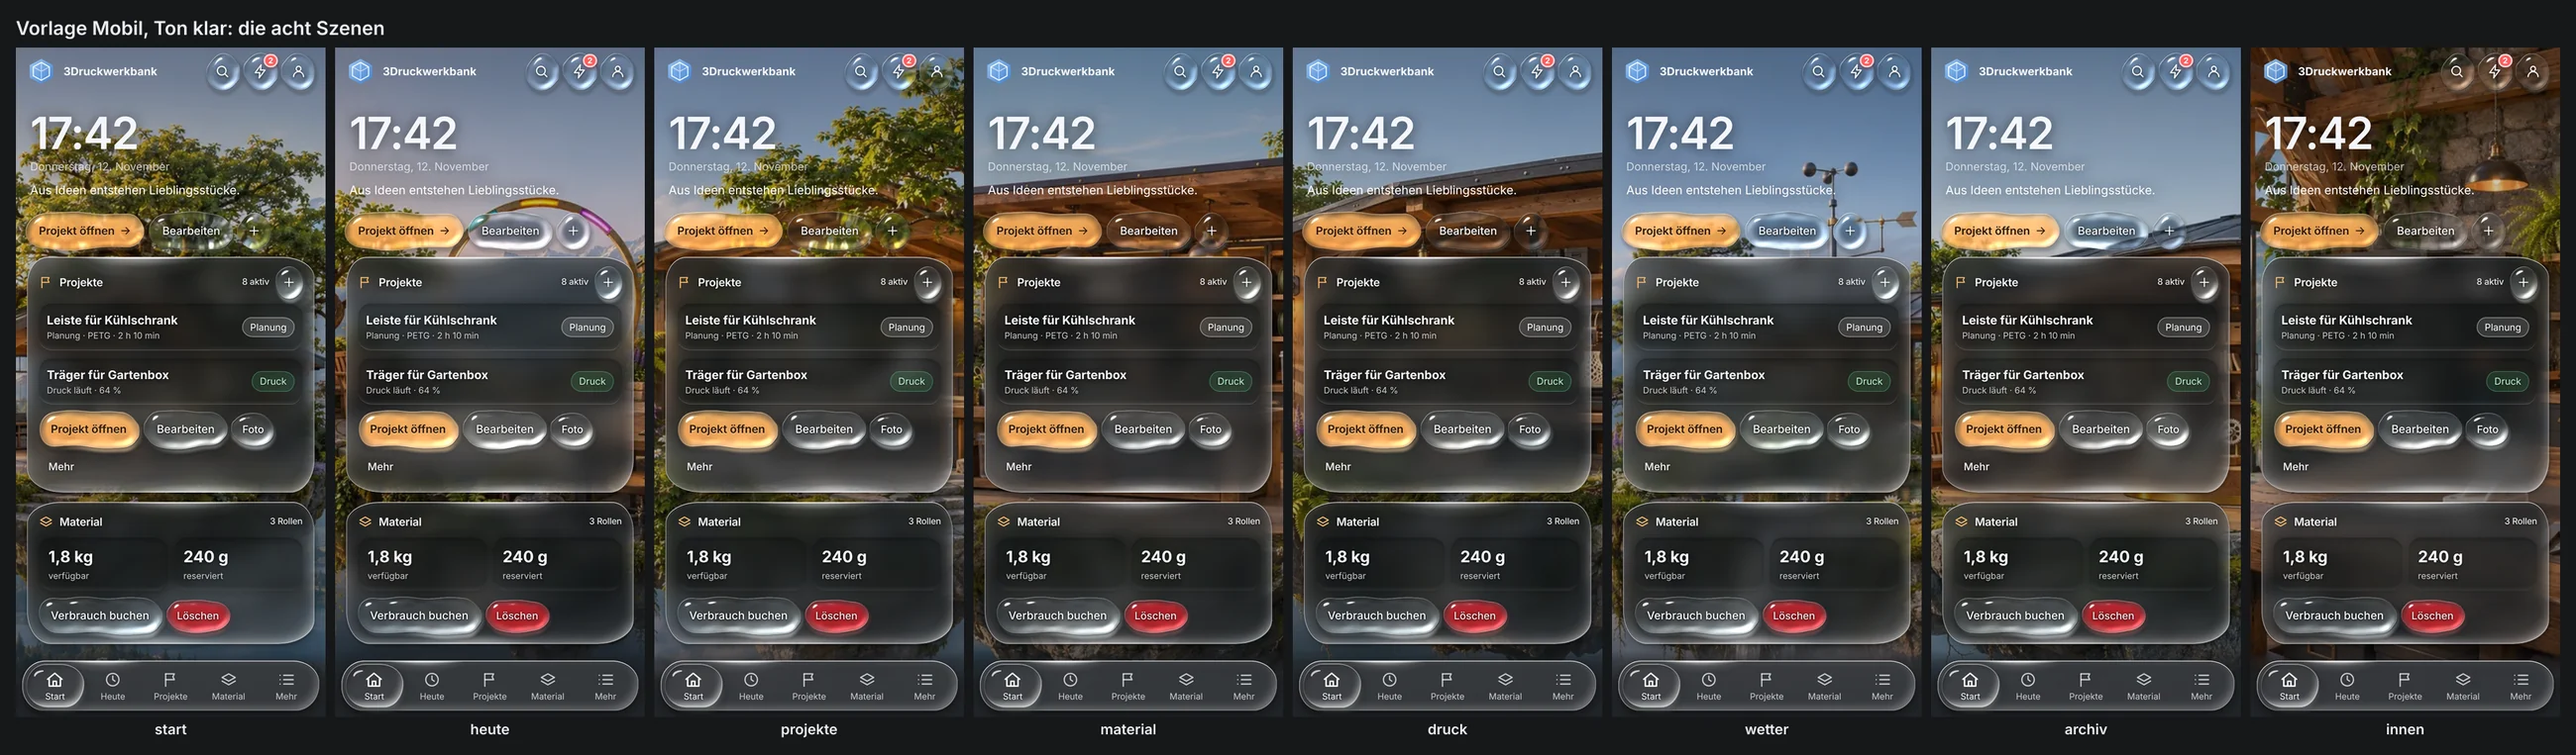
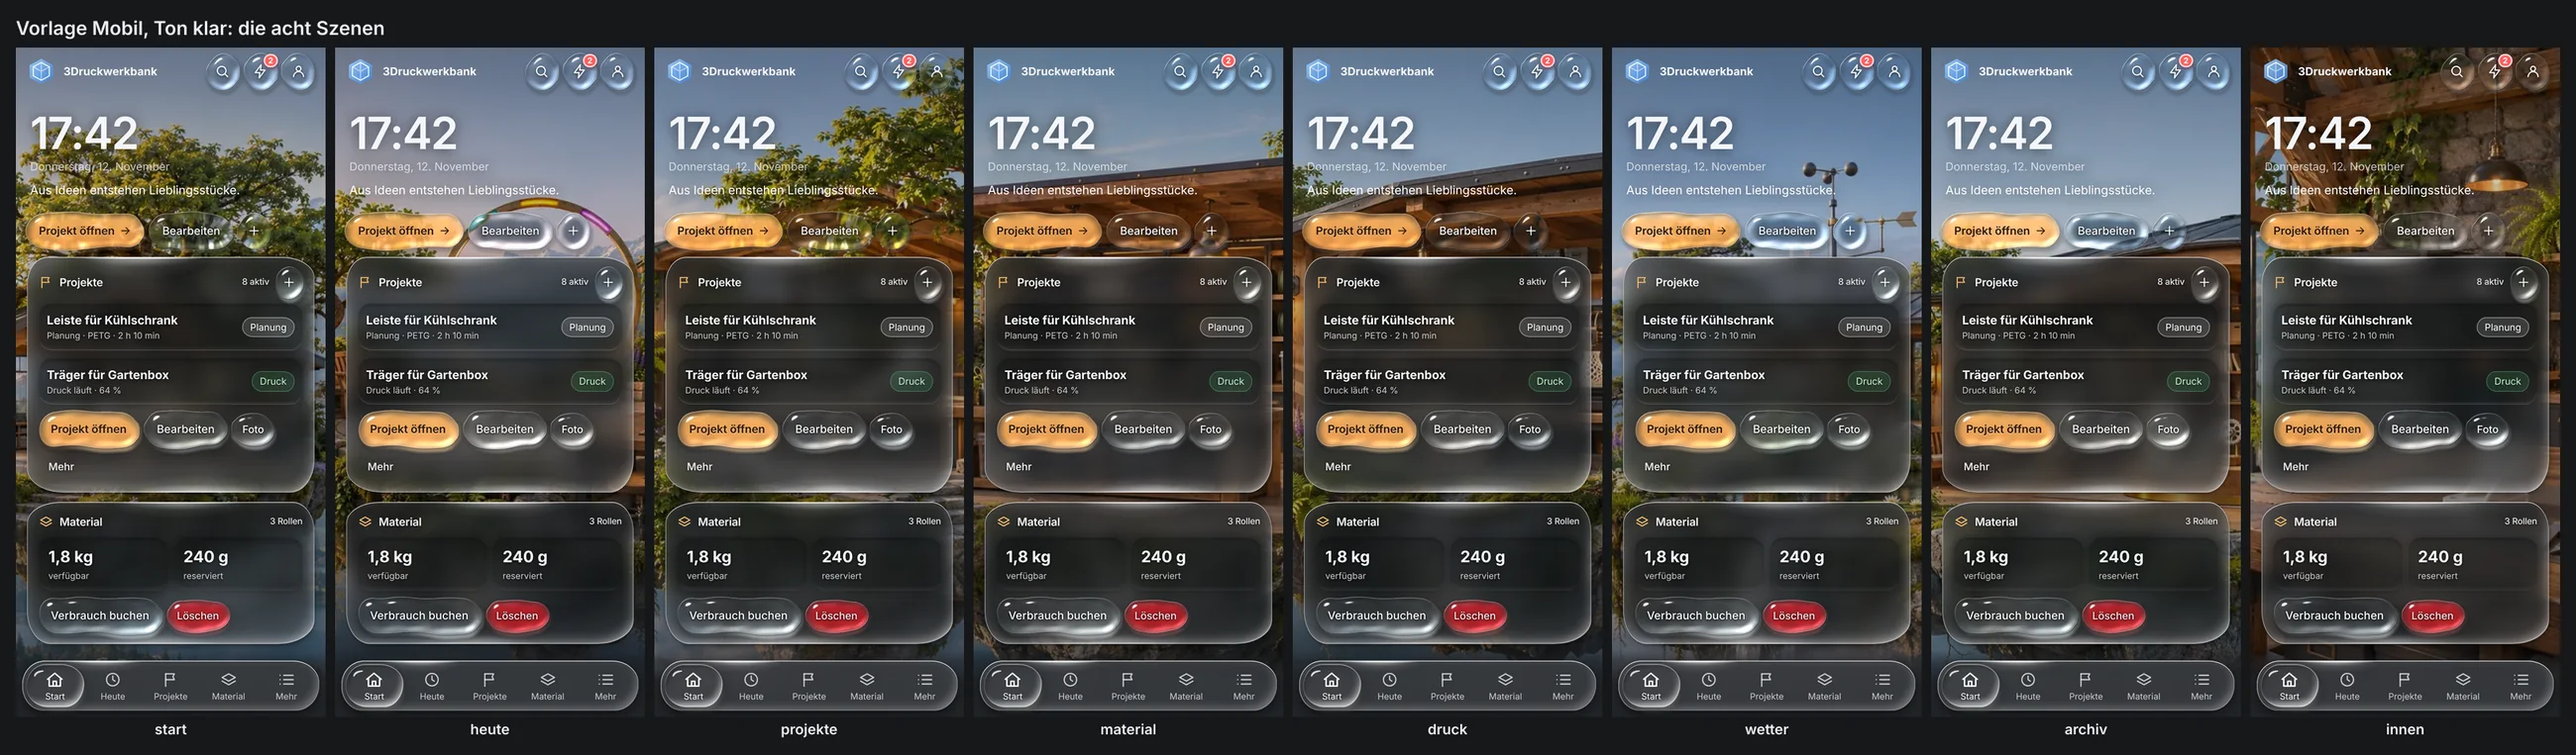
Wasser-Look: Zwischenstand der Restmängel, Bilder des hellen Tons erneuert (Schritt läuft noch)
Unfertig, nur als Sicherung gegen einen Neustart der Arbeitsmaschine.
Die App selbst ist unverändert.

Claude-Session: https://claude.ai/code/session_01Bea5Y1uKo4kG3DT62iBBFM

diff --git a/docs/wasser-look/vorlage/NOTIZEN.md b/docs/wasser-look/vorlage/NOTIZEN.md
@@ -502,8 +502,16 @@ All on the work machine (software rendering; Chromium and Playwright's WebKit fo
    pills are flat also on `.wa-becken`, `.wa-wasser`, `.wa-wasser--dicht`; a `.badge` is styled in any drop (before:
    in `.m-ico` only).
 6. Not carried over: the toast's own small light, a rule that never applied (section 12).
+7. The corrections of 14.11., after the two checkers of the package (numbers below). "dunkel" at rest does not move by
+   one pixel; "klar" changes inside the drops on cards and nowhere else:
+   a. the pull of scrolling is bounded for every `--wa-leben` from 0 to 2 (pitfall 44);
+   b. the light of a new sheet arrives by the transition of the pull instead of a keyframe animation (pitfall 43);
+   c. "klar": the tone token `--wa-drop-veil` is .3 ("dunkel": 1, as it was);
+   d. the governor of the drops sets its wait back after a climb that held; start option `debug.cost`,
+      `Wasser.info.wait`.
 
-**Is it the same look?** `node scripts/wasser/vergleich.mjs` (machine otherwise idle), Chromium:
+**Is it the same look?** `node scripts/wasser/vergleich.mjs` (machine otherwise idle), Chromium. The table is the
+state of the package (13.11.); what the same comparisons say after the corrections of 14.11. follows below it.
 
 | Comparison | What | Result |
 |---|---|---|
@@ -529,12 +537,39 @@ On the way the comparison found, and the template or the tools now handle: the b
 approved look), the paint between two stylesheets of pitfall 39 (in the first version of `mobil.html`), late first
 pictures of drops (41), weather that comes and goes (38).
 
-**Does it work?** `node scripts/wasser/pruefen.mjs --app`: 55 checks pass in Chromium and 55 in WebKit: start;
+**After the corrections of 14.11.** the same comparisons, the deliberate changes on the tool's list (`KNOWN`, point 4):
+
+| Comparison | Result on 14.11. |
+|---|---|
+| `bilder` against the approved look, Chromium | "dunkel", 16 pairs: 0 pixels differ, outside and inside the drops. "klar", 16 pairs: 0 outside; inside the drops 84,000 (phone view) / 283,000 (close-up) pixels differ, largest 43 of 255 - the veil |
+| `app` against the approved look, Chromium | "dunkel", 16 screens: 0 pixels differ, outside and inside the drops. "klar": 0 outside the drops on 14 screens; inside the drops on the five screens with clear drops on cards (46,000 to 56,000 pixels, largest 40); on two screens the changed drops are seen through a blur and differ by 1 of 255 beyond their boxes (the form sheet over "Projekte": 6 pixels; the toast: 3,134) - the tool marks these `ok~` |
+| `film` against the approved look, Chromium | the same motion in all 12 strips (the arrival of the light named as transitions); 0 pixels differ outside the drops in the 58 stills of ruhe, tab, druck, bogen, haken - also in "tab", where the light arrives; scroll as before (real frame times) |
+| `stile` against the approved look, Chromium | REF_STILE |
+| `bilder`, `app` against the template as it was packed (`--alt <copy of commit f811b9d>`), Chromium | harness, 32 pairs: "dunkel" 0 pixels, outside and inside; "klar" 0 outside, inside the drops as above. App, 32 pairs: "dunkel" 0 pixels on all 16 screens; "klar" 0 outside the drops on 14 screens, inside the drops on the five screens with clear drops on cards; on two screens 6 and 3,134 pixels differ by 1 of 255 outside the drop boxes - the changed drops seen through a blur (behind the scrim of the form sheet; under the toast) |
+| the same in the WebKit test build | REST_WK |
+
+**The corrections of 14.11., in numbers** (Chromium unless said; "before" = the template as packed, commit `f811b9d`;
+the probes are the second checker's, run on both states):
+
+| What | Before | After |
+|---|---|---|
+| Full pull (`--wa-zug` 1 and -1), light OUTSIDE the basins: device px at 2x that the lights change by 3 of 255 or more / the largest change; harness "start", worst of four places in the loops | `--wa-leben` 1: 3,792 px / 25 - 1.5: 9,037 px / 200 - 2: 20,086 px / 224 | 1: 3,792 px / 25 (unchanged: the soft tail of the floor light below its card, a glint in a corner) - 1.5: 2,325 px / 12 - 2: 1,373 px / 16 |
+| the same in the real app ("Material", list scrolled) | 1: 21 px / 9 - 1.5: 5,099 px / 173 - 2: 8,059 px / 216 | 1: 21 px / 9 - 1.5: 34 px / 13 - 2: 44 px / 16 (both tones alike) |
+| nearest light of +12 and more to a corner of its card, top rim, at full pull | 1: 35 px - 1.5: 19.5 px - 2: 6.5 px | 1: 35 px - 1.5: 34 px - 2: 32.5 px |
+| computed at full pull, `--wa-leben` 1 / 1.5 / 2: lean of the lit rim (deeper, shallower); slide; lag of the floor light | 1.9, 0.1 / 2.35, -0.35 / 2.8, -0.8; 24 / 36 / 48 px; 28 / 42 / 56 px | 1.9, 0.1 / 2.35, 0.1 / 2.4, 0.1; 24 px; 28 / 18.7 / 14 px |
+| A list rolled 0.7 s after its screen was entered (1300 px a second for 0.4 s, stopped dead): lean of the lit rim after the stop | 1.26 at 83 ms, 0.98 at 150 ms, then still - no swing | 1.71 at 67 ms, 1.49 at 133 ms, 0.86 at 450 ms, 1.06 at 900 ms, at rest after 1.4 s (3.2 s after entering, before and after alike: 1.71, 1.62, 0.75 at 467 ms, 1.08, rest) |
+| The arrival itself: lean of the lit rim 0 / 0.2 / 0.4 / 0.9 / 1.6 s after its card appeared | 1.60 / 1.28 / 0.82 / 1.07 / 1.00 | 1.60 / 1.38 / 0.86 / 1.07 / 1.01 - the same curve, two frames later |
+| "klar", white labels on clear drops on a card, eight scenes, living drops: medians; the lowest worst-5-% value | "Bearbeiten" 5.7 to 8.2, "Foto" 5.5 to 9.2, "Verbrauch buchen" 7.5 to 10.2; lowest 4.4 (WebKit build without blur: 3.9) | 6.5 to 9.9, 6.2 to 11.2, 9.0 to 12.4; lowest 5.0 (WebKit: 4.5). Against the values before the page of "klar" was lightened: no median more than 0.3 lower; "Foto" and the round "+" up to 1.6 and 1.9 higher |
+| The governor after ONE failed climb: the wait of every later climb | 40 s (up to 5 min), until reload | 20 s again as soon as a climb has held for the wait. The walk of `pruefen.mjs --regler`: 5 s level 1 - 9 s level 2 - 35 s level 1 - 38 s level 2, wait 40 s (the climb failed) - 90 s level 1 - 135 s level 0, wait 20 s - 170 s level 1 (a later step down, no failed climb) - 193 s level 0 |
+
+**Does it work?** `node scripts/wasser/pruefen.mjs --app`: 60 checks pass in Chromium (both tones) and 60 in WebKit
+(14.11.; 55 at the package, the five of part 10 are new), and the nine of `--regler` in Chromium: start;
 marker (tap, class moved by script, second tap during a flight, a bar that was replaced); ring (tap, re-rendered card,
 held finger, drag, disabled button); every block on foreign elements by its class alone (17 checks); sleep and waking;
 reduced motion and the app's switch; `stop()` leaves nothing behind, `start()` twice gives one instance, options are
 honoured, one global; without WebGL; real app (a light per card, the page rests behind a sheet, the sheet's light
-is pulled by scrolling, the toast is centred, `stop()` cleans up).
+is pulled by scrolling, the toast is centred, `stop()` cleans up); pull and arrival of the light, the bounds of
+`--wa-leben`, the token lists of the two tones (55 and 55, one rule names the tone).
 
 **Can the text be read?** `node scripts/wasser/kontrast.mjs --app --szenen <all eight>`, Chromium; median (worst
 5 % of the glyph pixels), floor 4.5, placeholders 3:
@@ -553,15 +588,43 @@ is pulled by scrolling, the toast is centred, `stop()` cleans up).
 | Search hit, small text | 9.0 | 6.1 (5.6) |
 | Toast text / "Rückgängig" | 17.0 / 11.3 | 9.7 (6.5) / 7.0 |
 | Foot note directly on the page | 4.9 (4.2) - the app's own faint ink | 8.9 (5.0) |
+| Label on a clear drop on a card: short / small / long (the frozen drop) | 10.5 to 11.7 (8.9) / 10.0 to 11.6 (8.0) / 11.9 to 12.6 (9.2) | 8.1 to 11.0 (5.4) / 5.9 to 12.5 (4.6) / 8.9 to 13.1 (5.8) |
+| Label on the red drop / on the amber drop | 7.9 to 8.0 (7.6) / 7.9 to 8.0 (7.5) | 5.7 to 6.0 (5.5) / 7.9 to 8.5 (7.5) |
+| Label on a clear drop free over the scene | 5.1 to 13.4 (4.6) | 5.1 to 13.5 (4.6) |
 
-No median below the floor. These are the numbers of the approved look.
+No median below the floor (run on 14.11.). These are the numbers of the approved look; only the labels on clear
+drops on cards of "klar" are new (`--wa-drop-veil`), and they are the tool's own, with the frozen drop of reduced
+motion - a living drop moves them by about 0.2. Not in the tool: the icon of a round drop (the "+" in a card title;
+the checker's measure: 6.1 to 11.3 in "klar", worst 5 %: 5.3).
 
-**Alive but calm** (`node scripts/wasser/messen.mjs ruhe`, harness page, Chromium): of the pixels of the cards
-outside the drops 23 % (dunkel) / 18 % (klar) change within a second, 4 to 5 % by 4 of 255 or more, the mean change
-is 0.6 / 0.5; after four seconds 28 % have changed, 8 to 9 % by 4 or more; the tab bar 16 % / 25 %. The single large
-values (50 to 215) are the 2 px glint on a rim line where it passes. Glyph pixels of row title, card title, count,
-tile caption, inactive tab: 0 change. The small muted line in a row: 44 to 60 of 808 pixels change by 1 of 255 (its
-ink is see-through, the floor light passes under the row).
+**Alive but calm** (`node scripts/wasser/messen.mjs ruhe`, harness page, Chromium, 14.11.): of the pixels of the
+cards outside the drops 20 % (dunkel) / 20 % (klar) change within a second, 3 to 4 % by 4 of 255 or more, the mean
+change is 0.4 / 0.5; after four seconds 28 to 29 % have changed, 8 to 9 % by 4 or more; the tab bar 10 % / 16 %. The
+single large values (60 to 210) are the 2 px glint on a rim line where it passes. Text: in these stills no glyph
+pixel of row title, card title, count, tile caption and inactive tab changes, and 33 to 61 of the 800 to 900 pixels
+of the small muted line change by 1 of 255. That is NOT "text never changes": with a mask of ALL text the second
+checker found 3.0 % of the glyph pixels changed within one second and 6.5 % within four (up to 8 % of a card's in the
+real app) - by 1 to 3 of 255, never by 4 or more - and up to 30 of 255 right beside the label of the active tab (the
+bead breathes behind it). See-through ink over moving light is not still; the eye does not see it.
+
+**How much of it is SEEN** (`node scripts/wasser/leben.mjs`, the real app, recorded through the screencast and
+measured in the finished film `bilder/mobil/leben-vergleich.mp4`; left `--wa-leben` 1, right 1.5):
+
+| | Leben 1 | Leben 1.5 |
+|---|---|---|
+| "Start" at rest: card pixels that change within one second by 4 of 255 and more / by 8 and more | 3.3 % / 0.9 % | 4.4 % / 1.2 % |
+| the same over 5.4 s | 11.5 % / 4.1 % | 16.4 % / 6.2 % |
+| "Heute", 0.12 s after the list was stopped, against 1.8 s after: by 4 and more / by 16 and more | 16.4 % / 1.8 % | 16.8 % / 3.0 % |
+| the two phones against each other at the same moment | 11 to 16 % of the pixels differ by 4 and more, 2 to 3 % by 8 and more, the largest difference 29 to 55 | |
+
+(The film is true to the page: decoded, it differs from the recorded pictures by 1.4 of 255 on average, two frames
+at rest differ by 4 and more on 0.1 % of the pixels at most.) By eye, frame by frame: in both phones the glint on
+the top rims wanders (about 8 px a second - it is found when one looks for it) and the rims of the cards light up
+for half a second when the list stops; the light on the floor is seen in neither. Between the phones no difference
+can be told at phone size, in stills not at all, in motion a slightly brighter rim. A try for this page only, not
+built in: the same loops 2.5 times as fast at `--wa-leben` 1 change 5.5 % of the card pixels within a second by 4
+and more and 1.05 % by 16 and more - against 2.8 % and 0.19 % as built, and 3.6 % and 0.26 % at 1.5. The pace
+decides what the eye finds, not the strength.
 
 **The pace of the page** (`node scripts/wasser/messen.mjs takt --scale 3`, real app on "Start", frames a second
 coupled to the compositor; software rendering - only the relations count):
@@ -572,10 +635,12 @@ coupled to the compositor; software rendering - only the relations count):
 | WebKit, template | 11 | 45 | 14 | 51 |
 | WebKit, reference | 12 | | | |
 
-The template is as fast and as slow as the approved look; section 12 says what the WebKit numbers mean.
+The template is as fast and as slow as the approved look; section 12 says what the WebKit numbers mean. (14.11.,
+machine idle, three runs each: Chromium as it is 58 on "Start", 54 on "Heute", 53 on "Material"; WebKit 12 and 10.)
 
-**Not measured again in this step** (the numbers of the builders stand): the governor of the drops stepping down and
-up, taps on hit areas in pixels, contrast in WebKit, the L* of the drops' bodies over their card.
+**Not measured again** (the numbers of the builders stand): taps on hit areas in pixels, contrast in WebKit beyond
+the labels on drops, the L* of the drops' bodies over their card in "dunkel". The governor has only ever been walked
+with pretended costs or forced levels, never by a machine that really got slow and fast again.
 
 **The app is untouched:** `npm run build` passes; `git status` shows only `docs/wasser-look/vorlage`,
 `docs/wasser-look/bilder/mobil` and `scripts/wasser`.

diff --git a/docs/wasser-look/vorlage/LIESMICH.md b/docs/wasser-look/vorlage/LIESMICH.md
@@ -83,5 +83,17 @@ Die Vorlage zeigt denselben Look wie der freigegebene Stand: in Chromium und im 
 abweichender Bildpunkt außerhalb der Tropfen und kein abweichender Stil (Zahlen in `NOTIZEN.md`, Abschnitt 9).
 Dabei gefunden und in der Vorlage behoben: Im WebKit-Testbrowser wurden die Tropfen der Kopfzeile nach einem
 Seitenwechsel gelegentlich schwarz (im freigegebenen Stand bei 8 von 48 Wechseln, in der Vorlage bei keinem).
+
+**Nachgebessert am 14.11.** (nach zwei unabhängigen Prüfungen des Pakets; Zahlen in Abschnitt 9):
+
+- Der Ton „dunkel“ ist in Ruhe unverändert – kein einziger Bildpunkt.
+- Im Ton „klar“ sind die klaren Tropfen auf Karten etwas weniger silbrig: ihre weiße Schrift ist wieder so gut
+  lesbar wie vor dem Aufhellen der Seite (ein einziger Wert, `--wa-drop-veil`).
+- Das Licht einer Karte schwingt jetzt auch dann aus, wenn man gleich nach dem Reiterwechsel rollt.
+- Der Regler „Leben“ (`--wa-leben`, 0 bis 2) kann nichts mehr aus einer Karte hinausschieben.
+- Zum Entscheiden liegt der Vergleich „Leben 1 gegen 1,5“ bei den Bildern (`leben-vergleich`). Ehrlich gesagt: Der
+  Unterschied ist auf Handygröße kaum zu sehen; mehr Leben käme vom Tempo des Lichts, nicht von seiner Stärke.
+
 **Noch nie auf einem echten Handy gelaufen** – alles wurde auf der Arbeitsmaschine geprüft; ob es am iPhone flüssig
-läuft, ist offen (`NOTIZEN.md`, Abschnitt 12).
+läuft, ist offen. Womit man am Handy anfängt und welche eine Zeile man jeweils ändert, steht in `NOTIZEN.md`,
+Abschnitt 13.
